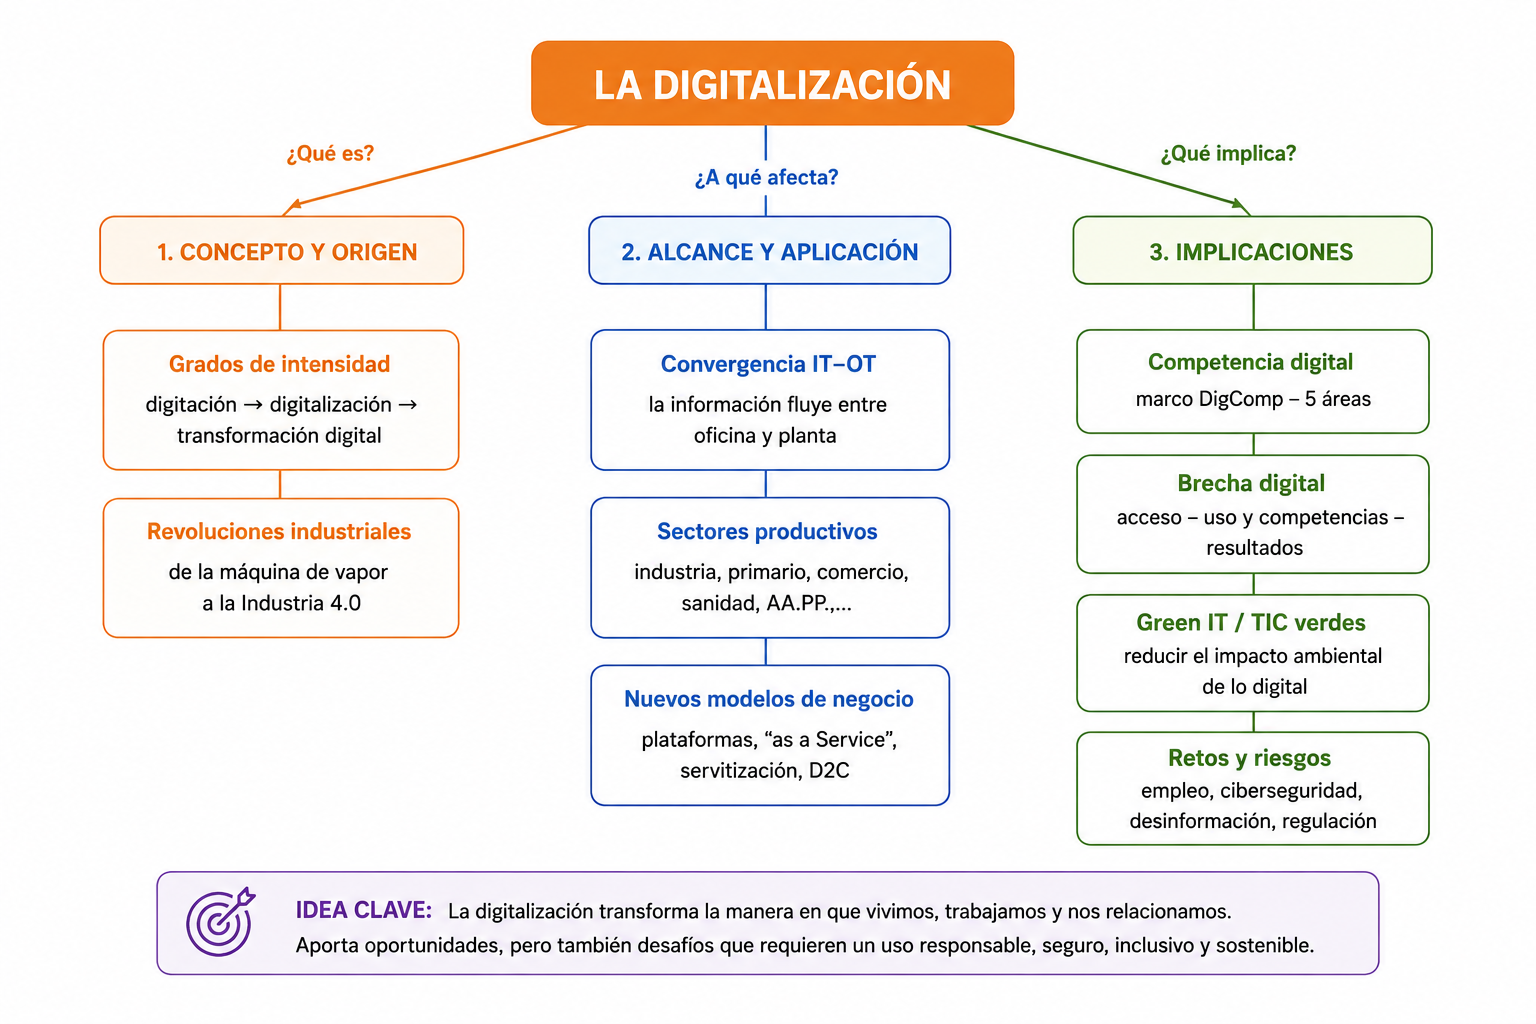
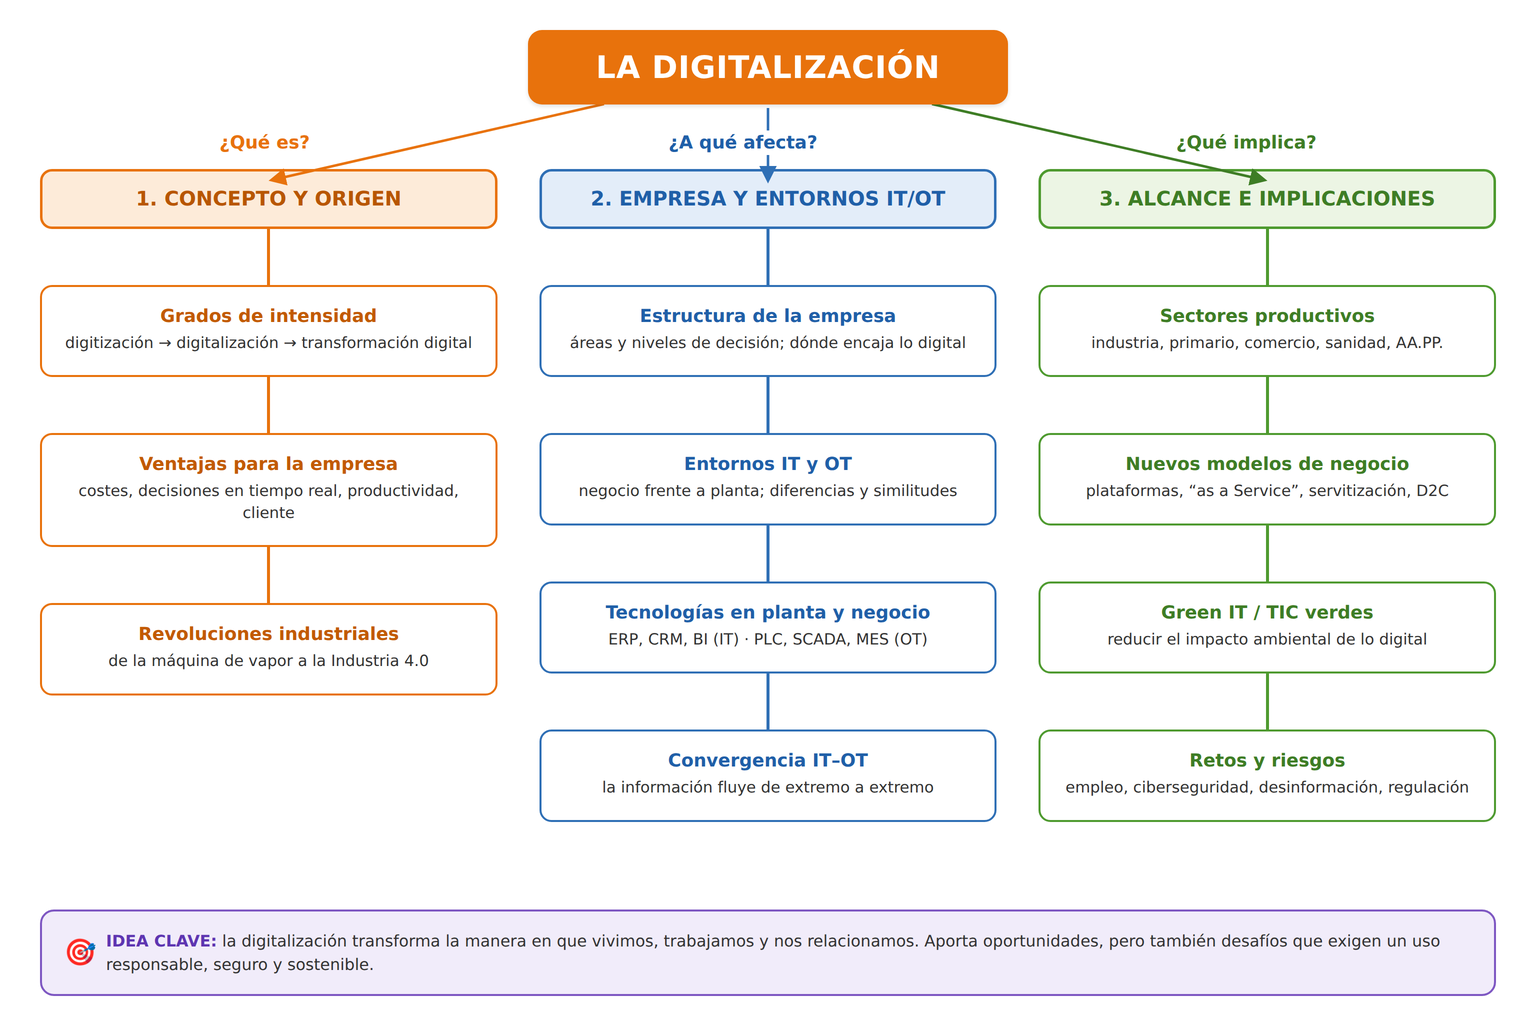
UD1: ajusta contenidos al currículo del RA1 y regenera el mapa conceptual
- Añade estructura de la empresa, similitudes IT/OT, tecnologías en planta
  y negocio, y ventajas de digitalizar de extremo a extremo
- Elimina los apartados de competencia digital (DigComp) y brecha digital,
  ajenos al currículo del módulo
- Renumera apartados, actividades y autoevaluación
- Regenera el mapa conceptual acorde a la nueva estructura
- ud6.md: elimina la referencia a DigComp

Claude-Session: https://claude.ai/code/session_01Sc4iXmGYX4nJpfHnHuWThb

diff --git a/docs/ud1.md b/docs/ud1.md
@@ -17,6 +17,17 @@ Conviene distinguir tres conceptos que a menudo se confunden:
 
 La transformación digital no es, por tanto, "comprar ordenadores": es un cambio estructural que afecta a procesos productivos, a la organización del trabajo, a la relación con el cliente y a la propia cultura de la empresa.
 
+Bien planteada, la digitalización aporta a la empresa **ventajas** claras:
+
+- **Reducción de costes y tiempos**: se automatizan tareas repetitivas y se eliminan errores y dobles registros.
+- **Mejores decisiones**: la información está disponible en tiempo real y permite anticiparse en lugar de reaccionar.
+- **Más productividad y calidad**: procesos más ágiles y con menos fallos.
+- **Cercanía al cliente**: nuevos canales de venta y atención, y productos o servicios personalizados.
+- **Flexibilidad** para adaptarse a los cambios del mercado.
+- **Nuevas oportunidades de negocio**: modelos digitales que antes no eran posibles (véase apartado 3).
+
+Estas ventajas se materializan plenamente cuando la digitalización abarca toda la empresa, de la gestión a la planta (véase 1.6).
+
 !!! question "💡 Comprueba que lo has entendido"
     ¿Dónde situarías cada caso?
 
@@ -52,7 +63,45 @@ La **cuarta revolución industrial o Industria 4.0** (desde ~2010) no se limita 
     - Informatizar el registro sin conectar los procesos entre sí → **tercera revolución industrial**.
     - Conectar máquinas y sensores para intercambiar datos en tiempo real → **cuarta revolución industrial (Industria 4.0)**.
 
-### 1.2. Entornos IT y OT
+### 1.2. La estructura de la empresa y la digitalización
+
+Toda empresa se organiza en **áreas o departamentos** con funciones distintas y en **niveles de decisión**:
+
+- **Nivel estratégico** (dirección): fija los objetivos a largo plazo.
+- **Nivel táctico** (mandos intermedios): planifica y coordina cada área.
+- **Nivel operativo** (personal de base): ejecuta las tareas del día a día.
+
+Áreas funcionales habituales: dirección, administración y finanzas, recursos humanos, comercial y marketing, compras, producción u operaciones, calidad, logística, I+D y sistemas/informática.
+
+La implantación de tecnología digital **no afecta a todos los departamentos de la misma forma**: cada área incorpora herramientas propias.
+
+| Área de la empresa | Tecnología digital característica |
+|---|---|
+| Dirección | Cuadros de mando, *business intelligence* (BI) |
+| Administración y finanzas | ERP, facturación y firma electrónica |
+| Recursos humanos | Portal del empleado, gestión de nóminas y turnos |
+| Comercial y marketing | CRM, comercio electrónico, analítica web |
+| Compras y logística | ERP, sistema de gestión de almacén (SGA) |
+| Producción y mantenimiento | SCADA, MES, sensores, robótica |
+
+Digitalizar en serio implica que estas herramientas **se integren entre sí**: un dato se introduce una sola vez y fluye por toda la organización. Eso obliga a revisar los procesos y, a veces, el propio organigrama, con perfiles nuevos como el de responsable de transformación digital o analista de datos.
+
+Dentro de esa estructura, unos departamentos trabajan sobre todo con **información del negocio** y otros actúan sobre el **proceso físico**. Esa distinción da lugar a los entornos IT y OT.
+
+- **Departamentos que suelen constituir el entorno IT**: dirección, administración y contabilidad, finanzas, recursos humanos, comercial y marketing, compras y el propio departamento de sistemas/informática.
+- **Departamentos con fuerte componente OT**: producción o fabricación, mantenimiento, control de calidad en planta y logística interna o de almacén.
+
+!!! question "💡 Comprueba que lo has entendido"
+    Una empresa implanta un CRM en el departamento comercial, un ERP en administración y un sistema SCADA en la planta de fabricación.
+
+    **¿Qué departamentos está digitalizando y cuáles pertenecen al entorno IT?**
+
+??? note "Ver respuesta"
+    - **Comercial** (CRM) y **administración** (ERP): gestionan información del negocio → entorno **IT**.
+    - **Producción** (SCADA): supervisa y controla el proceso físico → entorno **OT**.
+    - La tecnología digital llega a cada área con herramientas distintas; el reto es que el CRM, el ERP y el SCADA compartan datos en lugar de funcionar aislados.
+
+### 1.3. Entornos IT y OT
 
 En cualquier organización industrial conviene distinguir dos entornos tecnológicos que tradicionalmente han evolucionado por separado:
 
@@ -68,7 +117,43 @@ En cualquier organización industrial conviene distinguir dos entornos tecnológ
 | **Prioridad** | Confidencialidad e integridad | Disponibilidad y estabilidad |
 | **Ejemplo** | ERP registra un pedido | PLC controla una máquina |
 
-Departamentos que suelen constituir entorno IT: administración, contabilidad, recursos humanos, sistemas/informática, marketing. Departamentos que suelen constituir entorno OT: producción, mantenimiento, control de calidad, logística de planta.
+Los **departamentos que suelen constituir el entorno IT** son administración y contabilidad, finanzas, recursos humanos, comercial y marketing, compras y sistemas/informática; el **entorno OT** se concentra en producción, mantenimiento, control de calidad en planta y logística interna (véase 1.2).
+
+Pese a sus diferencias, IT y OT también presentan **similitudes** que explican por qué acaban integrándose:
+
+- Ambos son tecnología que **procesa datos** y automatiza tareas.
+- Ambos se apoyan en **hardware, software y redes de comunicación**.
+- Ambos son **críticos**: un fallo detiene la actividad, ya sea administrativa o productiva.
+- Ambos necesitan **ciberseguridad, mantenimiento, actualización y personal cualificado**.
+- Ambos tienden a usar **tecnologías comunes** (redes IP, servidores, virtualización, la nube), lo que facilita —y hace casi inevitable— su convergencia.
+
+### 1.4. Tecnologías de digitalización en planta y en negocio
+
+Al digitalizar una empresa se seleccionan tecnologías distintas según se actúe sobre el **negocio** (entorno IT) o sobre la **planta** (entorno OT):
+
+| Digitalización del negocio (IT) | Digitalización de la planta (OT) |
+|---|---|
+| ERP (gestión integrada) | Sensores y actuadores |
+| CRM (relación con clientes) | PLC (autómatas programables) |
+| BI y cuadros de mando | SCADA (supervisión y control) |
+| Facturación y firma electrónica | MES (ejecución de la fabricación) |
+| Ofimática y suites colaborativas en la nube | HMI (interfaz con el operario) |
+| Comercio electrónico y gestión documental | Redes industriales (Profinet, Modbus, OPC UA) |
+| Sistema de gestión de almacén (SGA) | Robótica industrial y colaborativa, visión artificial |
+
+Además, las **tecnologías habilitadoras digitales (THD)** actúan de puente entre ambos entornos, con mayor peso en uno u otro:
+
+- **En el negocio (IT)**: inteligencia artificial y *big data* para el análisis de datos, computación en la nube y ciberseguridad.
+- **En la planta (OT)**: IoT industrial (IIoT), gemelos digitales, robótica colaborativa, fabricación aditiva y visión artificial.
+
+Todas ellas se estudian en detalle en la UD2.
+
+!!! example "🏭 Ejemplo"
+    - **En negocio**: el departamento comercial registra un pedido en el CRM, que lo traslada al ERP.
+    - **En planta**: el ERP envía la orden de fabricación al MES, que ajusta los parámetros del PLC de la línea.
+    - **Resultado**: un mismo pedido recorre negocio y planta sin que nadie lo reescriba.
+
+### 1.5. La convergencia entre IT y OT
 
 Tradicionalmente IT y OT han funcionado como mundos separados, con redes, protocolos y culturas de trabajo distintas: IT prioriza la confidencialidad y la actualización frecuente; OT prioriza la disponibilidad continua y la estabilidad, evitando cambios que puedan detener una línea de producción. La Industria 4.0 (véase 2.1) se caracteriza precisamente por la **convergencia IT-OT**: sensores de planta (OT) que envían datos a sistemas de análisis y toma de decisiones de negocio (IT), y decisiones de negocio que repercuten directamente en la configuración de la planta.
 
@@ -78,7 +163,7 @@ Tradicionalmente IT y OT han funcionado como mundos separados, con redes, protoc
 </figure>
 
 !!! tip "Por qué importa la conexión IT-OT"
-    Digitalizar una empresa industrial "de extremo a extremo" significa que la información fluye sin fricción entre ambos entornos: un pedido registrado en el ERP (IT) puede ajustar automáticamente los parámetros de una máquina (OT), y un sensor de vibración en esa máquina (OT) puede generar una alerta de mantenimiento visible en el panel de gestión (IT). Esta conexión también multiplica la superficie de exposición a ciberataques, un aspecto que se retoma al hablar de las tecnologías habilitadoras (UD2) y de la nube (UD3).
+    Cuando ambos entornos se conectan, la información fluye sin fricción: un pedido registrado en el ERP (IT) puede ajustar automáticamente los parámetros de una máquina (OT), y un sensor de vibración en esa máquina (OT) puede generar una alerta de mantenimiento visible en el panel de gestión (IT). Esta conexión es la base para digitalizar la empresa "de extremo a extremo" (véase 1.6), pero también multiplica la superficie de exposición a ciberataques, un aspecto que se retoma al hablar de las tecnologías habilitadoras (UD2) y de la nube (UD3).
 
 !!! question "💡 Comprueba que lo has entendido"
     Un sensor detecta una temperatura anormal en una máquina y genera una alerta que aparece en el sistema de gestión de mantenimiento.
@@ -89,6 +174,31 @@ Tradicionalmente IT y OT han funcionado como mundos separados, con redes, protoc
     - **OT**: el sensor de temperatura instalado en la máquina y la medición de la variable física en planta. Es tecnología que actúa sobre el mundo físico y supervisa el proceso.
     - **IT**: el sistema de gestión de mantenimiento (GMAO) donde se registra, muestra y consulta la alerta. Es un sistema que gestiona información del negocio.
     - El **paso de la alerta** desde el sensor de planta hasta el sistema de gestión es justamente un ejemplo de **convergencia IT-OT**: un dato originado en OT alimenta una decisión que se toma y se gestiona en IT.
+
+### 1.6. Ventajas de digitalizar una empresa de extremo a extremo
+
+Digitalizar **de extremo a extremo** (*end-to-end*) significa que la información fluye sin cortes a lo largo de toda la cadena de valor —desde el pedido del cliente hasta la entrega y el servicio posventa—, atravesando tanto el negocio (IT) como la planta (OT).
+
+Principales ventajas:
+
+- **Visibilidad y trazabilidad completas**: se sigue cada pedido, lote o producto en tiempo real a lo largo de todo el proceso.
+- **Decisiones basadas en datos y en tiempo real**: los datos de planta alimentan la gestión del negocio y las decisiones de negocio se trasladan a la planta, reduciendo la incertidumbre.
+- **Mayor eficiencia y menores costes**: se eliminan tareas manuales, dobles registros y errores de transcripción; se optimizan inventarios, plazos y consumo de energía.
+- **Flexibilidad y personalización**: la producción se adapta con rapidez a los cambios de demanda (personalización en masa).
+- **Calidad y mantenimiento predictivo**: se detectan antes los defectos y las averías, evitando paradas de línea.
+- **Mejor servicio al cliente**: plazos más fiables, información del estado del pedido y posventa proactiva (servitización).
+- **Base para innovar**: los datos integrados hacen posibles nuevos servicios y modelos de negocio (véase apartado 3).
+
+Como contrapartida, una empresa digitalizada de extremo a extremo amplía su **superficie de exposición a ciberataques** y aumenta su **dependencia tecnológica**, riesgos que se abordan en el apartado 7.
+
+!!! question "💡 Comprueba que lo has entendido"
+    Una fábrica conecta su tienda online, su ERP y sus máquinas de forma que un pedido llega directamente a la línea de producción y el cliente puede consultar en qué fase está su producto.
+
+    **Indica dos ventajas de esta digitalización de extremo a extremo y un riesgo asociado.**
+
+??? note "Ver respuesta"
+    - **Ventajas** (dos cualesquiera): trazabilidad completa del pedido, decisiones en tiempo real, menos errores y costes por eliminar registros manuales, mejor servicio al cliente.
+    - **Riesgo**: al conectar tienda, gestión y planta se amplía la superficie de ciberataque; además, un fallo de conectividad puede detener toda la cadena (dependencia tecnológica).
 
 ## 2. La digitalización por sectores productivos
 
@@ -186,42 +296,7 @@ La digitalización no solo mejora procesos existentes: también hace posibles mo
 ??? note "Ver respuesta"
     **Servitización**: la empresa industrial añade servicios digitales a su producto físico. Además, encaja con un modelo *as a Service*, porque el cliente paga por el uso (aire comprimido) en lugar de comprar el equipo.
 
-## 4. La competencia digital: el marco DigComp
-
-Para que las personas puedan participar en esta economía digital necesitan desarrollar una **competencia digital** adecuada. La Unión Europea ha definido el **Marco Europeo de Competencia Digital para la Ciudadanía (DigComp)**, que estructura la competencia digital en cinco áreas:
-
-1. **Información y alfabetización informacional**: buscar, evaluar y gestionar información digital.
-2. **Comunicación y colaboración**: interactuar, compartir y colaborar a través de tecnologías digitales; participar en la ciudadanía digital.
-3. **Creación de contenido digital**: desarrollar y editar contenido digital, respetando derechos de autor y licencias.
-4. **Seguridad**: proteger dispositivos, datos personales, salud y medio ambiente en el entorno digital.
-5. **Resolución de problemas**: identificar necesidades tecnológicas y resolver problemas conceptuales mediante medios digitales; identificar carencias en la propia competencia digital.
-
-DigComp establece **ocho niveles de competencia**, desde los niveles básicos hasta los altamente especializados, que permiten describir la progresión en las cinco áreas. Este marco es la base sobre la que se apoyan los planes de digitalización educativa y muchos de los contenidos que se trabajan a lo largo de este módulo.
-
-!!! tip "Autoevaluación DigComp"
-    Existen herramientas gratuitas basadas en DigComp que permiten autoevaluar el propio nivel de competencia digital (por ejemplo, la herramienta *DigCompSat* de la Comisión Europea). En la UD6 retomaremos este marco para elaborar un plan personal de mejora.
-
-## 5. La brecha digital
-
-La **brecha digital** es la desigualdad en el acceso, uso o aprovechamiento de las tecnologías digitales entre distintos grupos de población. Suele distinguirse en tres niveles:
-
-- **Brecha de primer nivel (acceso)**: diferencias en la disponibilidad de dispositivos y conexión a internet (por ejemplo, entre zonas rurales y urbanas, o según el nivel de renta).
-- **Brecha de segundo nivel (uso y competencias)**: diferencias en la capacidad para usar la tecnología de forma efectiva, aunque se tenga acceso a ella.
-- **Brecha de tercer nivel (resultados)**: diferencias en los beneficios reales que las personas obtienen del uso de la tecnología (por ejemplo, en oportunidades laborales o educativas).
-
-Colectivos especialmente afectados: personas mayores, personas con discapacidad, población en zonas rurales o con baja cobertura, personas con bajo nivel de estudios o rentas bajas.
-
-Algunas medidas para reducirla: extensión de la banda ancha y la cobertura móvil a zonas rurales (planes de conectividad), formación digital para colectivos vulnerables, diseño de servicios digitales accesibles (accesibilidad web, diseño universal) y mantenimiento de canales presenciales alternativos para trámites esenciales.
-
-!!! question "💡 Comprueba que lo has entendido"
-    Dos personas tienen móvil y conexión a internet. Una consigue cita médica, hace gestiones bancarias y busca empleo online; la otra solo usa mensajería y vídeos porque no sabe realizar esas gestiones.
-
-    **¿Qué nivel de brecha digital ilustra esta situación?**
-
-??? note "Ver respuesta"
-    La **brecha de segundo nivel (uso y competencias)**: ambas tienen acceso, pero difieren en la capacidad de usar la tecnología de forma efectiva. Si esa diferencia acaba traduciéndose en peores oportunidades laborales o educativas, aparece también la **brecha de tercer nivel (resultados)**.
-
-## 6. Digitalización sostenible (*Green IT*)
+## 4. Digitalización sostenible (*Green IT*)
 
 La digitalización tiene un impacto ambiental que no siempre es visible:
 
@@ -248,7 +323,7 @@ Frente a esto, el concepto de **TIC verdes (*Green IT*)** agrupa las prácticas 
     - Sustituir equipos funcionales cada poco tiempo → **alargar su vida útil** (reparación, ampliación de componentes en lugar de reemplazo completo).
     - Almacenar datos innecesarios de forma indefinida → **borrar lo que no se usa**; el almacenamiento en la nube consume electricidad, refrigeración y agua.
 
-## 7. Retos y riesgos de la digitalización
+## 5. Retos y riesgos de la digitalización
 
 No todo son ventajas. Entre los principales retos y riesgos asociados a la digitalización de los sectores productivos destacan:
 
@@ -282,11 +357,7 @@ Elige un sector productivo (por ejemplo, hostelería, transporte, construcción 
 4. Una empresa real del sector que haya llevado a cabo una transformación digital relevante.
 5. Un riesgo o reto específico asociado a esa digitalización.
 
-<span class="actividad-titulo">**Actividad 1.2 — Autoevaluación DigComp**</span>
-
-Realiza una autoevaluación de tu competencia digital utilizando el marco DigComp (puedes usar una herramienta online basada en este marco). Identifica el área en la que obtienes menor puntuación y propón dos acciones concretas para mejorarla.
-
-<span class="actividad-titulo">**Actividad 1.3 — Debate: ¿digitalización para todos?**</span>
+<span class="actividad-titulo">**Actividad 1.2 — Debate: ¿digitalización para todos?**</span>
 
 En grupos, preparad argumentos a favor y en contra de la siguiente afirmación: *"La digitalización acelerada de los servicios públicos deja atrás a quienes no tienen competencias digitales"*. Debatid en clase citando ejemplos reales.
 
@@ -294,7 +365,7 @@ En grupos, preparad argumentos a favor y en contra de la siguiente afirmación: 
 
 <figure markdown="span">
   ![Mapa conceptual de la Unidad 1: la digitalización y sus tres ramas —concepto y origen, alcance y aplicación, e implicaciones](assets/img/ud1-mapa-conceptual.png){ width="960" }
-  <figcaption>Síntesis de la unidad: la digitalización se aborda desde su <strong>concepto y origen</strong> (grados de intensidad y revoluciones industriales), su <strong>alcance y aplicación</strong> (convergencia IT–OT, sectores productivos y nuevos modelos de negocio) y sus <strong>implicaciones</strong> sociales y ambientales (competencia digital, brecha digital, Green IT y retos y riesgos).</figcaption>
+  <figcaption>Síntesis de la unidad: la digitalización se aborda desde su <strong>concepto y origen</strong> (grados de intensidad, ventajas para la empresa y revoluciones industriales), su efecto sobre <strong>la empresa y los entornos IT/OT</strong> (estructura, diferencias y similitudes IT–OT, tecnologías de planta y negocio y su convergencia) y su <strong>alcance e implicaciones</strong> (sectores productivos, nuevos modelos de negocio, Green IT y retos y riesgos).</figcaption>
 </figure>
 
 ## Autoevaluación
@@ -305,14 +376,17 @@ En grupos, preparad argumentos a favor y en contra de la siguiente afirmación: 
 ??? question "2. ¿Qué diferencia hay entre un entorno IT y un entorno OT en una empresa industrial?"
     El entorno IT (*Information Technology*) gestiona la información del negocio: servidores, bases de datos, ERP, redes corporativas. El entorno OT (*Operational Technology*) controla y supervisa procesos físicos y maquinaria: PLC, sistemas SCADA, sensores y actuadores de planta. La Industria 4.0 se caracteriza por la convergencia de ambos entornos.
 
-??? question "3. Cita las cinco áreas del marco DigComp."
-    Información y alfabetización informacional; comunicación y colaboración; creación de contenido digital; seguridad; resolución de problemas.
-
-??? question "4. ¿Qué es un gemelo digital y para qué se utiliza en la Industria 4.0?"
+??? question "3. ¿Qué es un gemelo digital y para qué se utiliza en la Industria 4.0?"
     Es una réplica virtual de un producto, proceso o sistema físico que permite simular su comportamiento sin necesidad de actuar sobre el elemento real, anticipando problemas y optimizando decisiones antes de aplicarlas en el mundo físico.
 
-??? question "5. Menciona dos medidas para reducir la brecha digital."
-    Por ejemplo: extender la cobertura de banda ancha a zonas rurales y ofrecer formación digital a colectivos vulnerables (también seria válido: mantener canales presenciales alternativos, o diseñar servicios digitales accesibles).
-
-??? question "6. ¿Qué significa el término *Green IT*?"
+??? question "4. ¿Qué significa el término *Green IT*?"
     El conjunto de prácticas orientadas a reducir el impacto ambiental de las tecnologías digitales: eficiencia energética de los centros de datos, alargamiento de la vida útil de los dispositivos, reciclaje de residuos electrónicos y desarrollo de software eficiente.
+
+??? question "5. ¿Cómo se relaciona la implantación de tecnología digital con la organización de la empresa?"
+    Cada área o departamento incorpora herramientas digitales propias (BI en dirección, ERP en administración, CRM en el área comercial, SCADA en producción…). La digitalización real exige que esas herramientas se integren entre sí —que el dato se introduzca una vez y fluya— lo que obliga a revisar procesos y, en ocasiones, el propio organigrama, con perfiles nuevos como el de responsable de transformación digital o analista de datos.
+
+??? question "6. Cita dos similitudes entre los entornos IT y OT."
+    Por ejemplo: ambos son tecnología que procesa datos y automatiza tareas; ambos se apoyan en hardware, software y redes; ambos son críticos para la actividad; ambos necesitan ciberseguridad y personal cualificado; ambos tienden a usar tecnologías comunes (redes IP, servidores, la nube).
+
+??? question "7. Menciona tres ventajas de digitalizar una empresa industrial de extremo a extremo."
+    Por ejemplo: visibilidad y trazabilidad completas del proceso; decisiones basadas en datos en tiempo real; mayor eficiencia y menores costes al eliminar tareas manuales y dobles registros; flexibilidad para personalizar la producción; mantenimiento predictivo; mejor servicio al cliente.

diff --git a/docs/ud6.md b/docs/ud6.md
@@ -24,7 +24,7 @@ Antes de proponer ningún cambio, hay que conocer el punto de partida. El **diag
 
 - Infraestructura tecnológica actual (equipos, conectividad, software).
 - Procesos ya digitalizados frente a procesos manuales o en papel.
-- Competencias digitales del personal (puede apoyarse en el marco DigComp visto en la UD1).
+- Competencias digitales del personal.
 - Cultura organizativa: ¿existe resistencia al cambio? ¿hay apoyo directivo?
 - Nivel de madurez en el uso de datos para la toma de decisiones (UD5).
 
